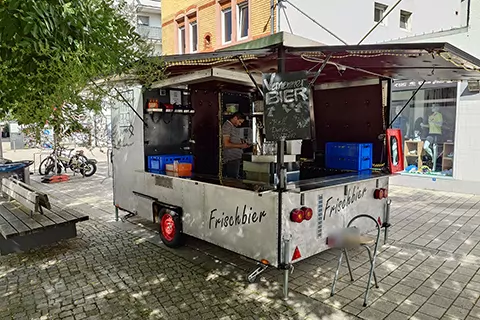
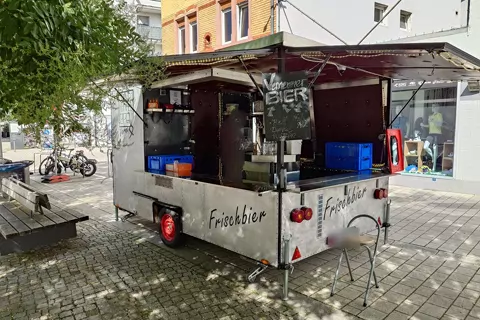
Bier-Gondel: Mitarbeiter auf Foto 1 wegretuschiert
Claude-Session: https://claude.ai/code/session_01JCUs8b1Lfw5wcicxb4gD9R

diff --git a/content/buchen-mieten/_index.md b/content/buchen-mieten/_index.md
@@ -74,5 +74,5 @@ Unsere Bier-Gondel, ein mobiler Schankwagen mit eigener Schank- und Kühltechnik
 {{< /galerie >}}
 
 {{< platzhalter >}}
-Entwurf: Bierseminare: Text im Fenster „Weitere Informationen“ wörtlich aus dem Word-Dokument, die Kurzfassung darüber ist neu formuliert (Anrede „ihr“ wie auf der übrigen Seite). Bitte bestätigen, dass Dauer, Kosten und Teilnehmerzahl für beide Seminare gelten. Bier-Gondel: Drei Live-Bilder als Vorschau mit Diashow (auf dem ersten ist ein Mitarbeiter zu sehen, das Kennzeichen ist unkenntlich gemacht, bitte bestätigen, dass das so passt). Die Bier-Gondel stammt aus einem älteren Beitrag. Bitte prüfen, ob sie so angeboten wird. Kühl-Anhänger: Details (Größe, Preis, Abholung) ergänzen. In der Zeichnung stehen die Maße noch als Platzhalter (XXXX) und die Leistung als „folgt“. Bitte die Zeichnung vervollständigen, dann binde ich sie neu ein.
+Entwurf: Bierseminare: Text im Fenster „Weitere Informationen“ wörtlich aus dem Word-Dokument, die Kurzfassung darüber ist neu formuliert (Anrede „ihr“ wie auf der übrigen Seite). Bitte bestätigen, dass Dauer, Kosten und Teilnehmerzahl für beide Seminare gelten. Bier-Gondel: Drei Live-Bilder als Vorschau mit Diashow (auf dem ersten Bild ist der Mitarbeiter wegretuschiert, das Kennzeichen ist unkenntlich gemacht). Die Bier-Gondel stammt aus einem älteren Beitrag. Bitte prüfen, ob sie so angeboten wird. Kühl-Anhänger: Details (Größe, Preis, Abholung) ergänzen. In der Zeichnung stehen die Maße noch als Platzhalter (XXXX) und die Leistung als „folgt“. Bitte die Zeichnung vervollständigen, dann binde ich sie neu ein.
 {{< /platzhalter >}}

diff --git a/NEWS.md b/NEWS.md
@@ -10,8 +10,9 @@ Stand 17.10.2026. Noch nicht live, nur in der Deploy Preview
 ### Aufbau und Inhalt
 
 - Mieten & Shop (21.10.2026): Die Seite heißt jetzt wie der Menüpunkt. Ganz oben stehen zwei Wege nebeneinander (auf dem Handy untereinander): „Anfragen per E-Mail oder Telefon“ (Bierseminare, Feiern, Kühl-Anhänger, Bier-Gondel) mit den beiden Knöpfen, und „Direkt im Online-Shop kaufen“ (dunkle Karte) mit dem Shop-Knopf. Der frühere Abschnitt „Mehr im Online-Shop“ am Seitenende entfällt.
+- Bier-Gondel (21.10.2026): Auf dem ersten Foto ist der Mitarbeiter wegretuschiert (Inhaltsbewusstes Füllen in PhotoCraft).
 - Startseite auf dem Handy: eigener Bildausschnitt des Banners im Format 6:5 mit Rand um die Gläser (600/900/1200 px, WebP und JPG) statt des verkleinerten Querformats. Desktop unverändert.
-- Menüpunkt heißt jetzt „Mieten & Shop“ (kurpfälzisch „Miete unn Lade“), ohne eigenen Shop-Knopf in der Navigation.
+- Menüpunkt heißt jetzt „Mieten & Shop“ (Vernemerisch „Miete unn Lade“), ohne eigenen Shop-Knopf in der Navigation.
 - Unsere Biere (20.10.2026): Das Vernemmer Pils (Pilsener Malz, Saazer und Hallertauer Perle, kalt gehopft, „Erfrischend & angenehm herb“) ist kein
   Sonderbier mehr und steht jetzt unter Über uns, Unsere Biere (Foto noch Platzhalter). Jedes Bier hat eine kurze
   Sommelier-Beschreibung und einen Knopf „Charakterprofil“: ein Fenster mit Netzdiagrammen der Malz- und Hopfensorten
